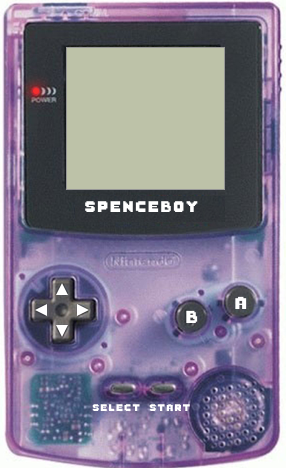
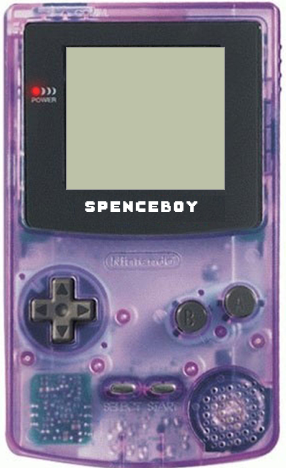
Input: Add the final glue code for input handling and refactors the input debug window to use new renderer

diff --git a/Emulator/Joypad.cpp b/Emulator/Joypad.cpp
@@ -2,8 +2,8 @@
 // Created by Spencer Dixon on 6/1/20.
 //
 
-#include "Emulator.h"
 #include "Joypad.h"
+#include "Emulator.h"
 #include <SD/Assertions.h>
 #include <SD/Bytes.h>
 
@@ -90,16 +90,12 @@ InputDebugWindow::InputDebugWindow(Emulator& emulator)
 {
     auto a_path = emulator.assets_dir() + "/A.png";
     m_a_tex = Texture::from_image(a_path);
-
     auto b_path = emulator.assets_dir() + "/B.png";
     m_b_tex = Texture::from_image(b_path);
-
     auto start_path = emulator.assets_dir() + "/Start.png";
     m_start_tex = Texture::from_image(start_path);
-
     auto select_path = emulator.assets_dir() + "/Select.png";
     m_select_tex = Texture::from_image(select_path);
-
     auto arrow_path = emulator.assets_dir() + "/Arrow.png";
     m_arrow_tex = Texture::from_image(arrow_path);
 }
@@ -110,11 +106,30 @@ InputDebugWindow::~InputDebugWindow()
 
 void InputDebugWindow::render()
 {
-    constexpr Color DOWN_COLOR = { 255, 0, 0, 255};
-    constexpr Color UP_COLOR = { 255, 255, 255, 255};
+    constexpr Color DOWN_COLOR = { 220, 10, 10, 255 };
+    constexpr Color UP_COLOR = { 255, 255, 255, 255 };
 
-    // FIXME: Should
-    m_b_tex.color(emulator().joypad().is_right_down() ? DOWN_COLOR : UP_COLOR);
-    m_emulator.renderer().draw_texture(m_b_tex, Point {205, 330});
+    m_a_tex.color(emulator().joypad().is_a_down() ? DOWN_COLOR : UP_COLOR);
+    m_emulator.renderer().draw_texture(m_a_tex, Point { 254, 315 });
 
+    m_b_tex.color(emulator().joypad().is_b_down() ? DOWN_COLOR : UP_COLOR);
+    m_emulator.renderer().draw_texture(m_b_tex, Point { 205, 330 });
+
+    m_arrow_tex.color(emulator().joypad().is_up_down() ? DOWN_COLOR : UP_COLOR);
+    m_emulator.renderer().draw_texture_rotated(m_arrow_tex, Point { 76, 303 }, 0);   // up
+
+    m_arrow_tex.color(emulator().joypad().is_right_down() ? DOWN_COLOR : UP_COLOR);
+    m_emulator.renderer().draw_texture_rotated(m_arrow_tex, Point { 97, 324 }, 90);  // right
+
+    m_arrow_tex.color(emulator().joypad().is_down_down() ? DOWN_COLOR : UP_COLOR);
+    m_emulator.renderer().draw_texture_rotated(m_arrow_tex, Point { 76, 345 }, 180); // down
+
+    m_arrow_tex.color(emulator().joypad().is_left_down() ? DOWN_COLOR : UP_COLOR);
+    m_emulator.renderer().draw_texture_rotated(m_arrow_tex, Point { 55, 324 }, 270); // left
+
+    m_start_tex.color(emulator().joypad().is_start_down() ? DOWN_COLOR : UP_COLOR);
+    m_emulator.renderer().draw_texture(m_start_tex, Point { 169, 421 });
+
+    m_select_tex.color(emulator().joypad().is_select_down() ? DOWN_COLOR : UP_COLOR);
+    m_emulator.renderer().draw_texture(m_select_tex, Point { 112, 421 });
 }

diff --git a/Emulator/Emulator.cpp b/Emulator/Emulator.cpp
@@ -54,10 +54,16 @@ void Emulator::run()
                     joypad().set_key_state(Key::Up, is_down);
                     break;
                 case SDLK_q:
-                    joypad().set_key_state(Key::A, is_down);
+                    joypad().set_key_state(Key::B, is_down);
                     break;
                 case SDLK_e:
-                    joypad().set_key_state(Key::B, is_down);
+                    joypad().set_key_state(Key::A, is_down);
+                    break;
+                case SDLK_SPACE:
+                    joypad().set_key_state(Key::Start, is_down);
+                    break;
+                case SDLK_r:
+                    joypad().set_key_state(Key::Select, is_down);
                     break;
                 default:
                     break;

diff --git a/Emulator/GUI/SDLRenderer.cpp b/Emulator/GUI/SDLRenderer.cpp
@@ -75,9 +75,10 @@ void SDLRenderer::draw_texture(const Texture& tex, const Point& point)
     SDL_RenderCopy(m_renderer, static_cast<SDL_Texture*>(tex.data()), NULL, &rect);
 }
 
-void SDLRenderer::draw_texture_rotated(const Texture&, const Point&, int)
+void SDLRenderer::draw_texture_rotated(const Texture& tex, const Point& point, f64 angle)
 {
-    ASSERT_NOT_REACHED();
+    SDL_Rect rect { point.x, point.y, tex.width(), tex.height() };
+    SDL_RenderCopyEx(m_renderer, static_cast<SDL_Texture*>(tex.data()), NULL, &rect, angle, NULL, SDL_FLIP_NONE);
 }
 
 void SDLRenderer::draw_partial_texture(const Texture& tex, const Rect& src, const Rect& dest)

diff --git a/Emulator/GUI/SDLRenderer.h b/Emulator/GUI/SDLRenderer.h
@@ -20,7 +20,7 @@ public:
 
     void draw_texture(const Texture& tex, const Rect& rect) override;
     void draw_texture(const Texture& tex, const Point& point) override;
-    void draw_texture_rotated(const Texture& tex, const Point& rect, int angle) override;
+    void draw_texture_rotated(const Texture& tex, const Point& rect, f64 angle) override;
     void draw_partial_texture(const Texture& tex, const Rect& src, const Rect& dest) override;
 
     SDL_Renderer* renderer()

diff --git a/Emulator/GUI/Renderer.h b/Emulator/GUI/Renderer.h
@@ -32,7 +32,7 @@ public:
 
     virtual void draw_texture(const Texture& tex, const Rect& rect) = 0;
     virtual void draw_texture(const Texture& tex, const Point& point) = 0;
-    virtual void draw_texture_rotated(const Texture& tex, const Point& rect, int angle) = 0;
+    virtual void draw_texture_rotated(const Texture& tex, const Point& rect, f64 angle) = 0;
     virtual void draw_partial_texture(const Texture& tex, const Rect& src, const Rect& dest) = 0;
 private:
 };

diff --git a/Docs/dev-log.md b/Docs/dev-log.md
@@ -18,6 +18,8 @@ Template for daily journal:
 
 * Create a movable Texture abstraction
 * Use new Texture in the PPU
+* Finish the rest of the inputs (start/select)
+* Refactor the InputDebug window to use the new renderer
 
 ---
 
